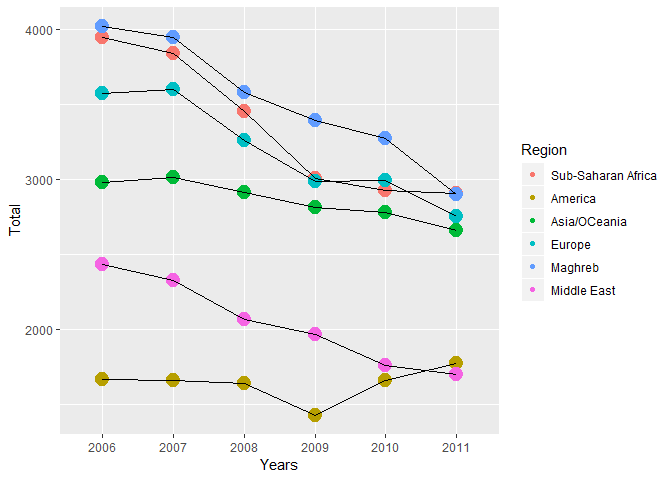
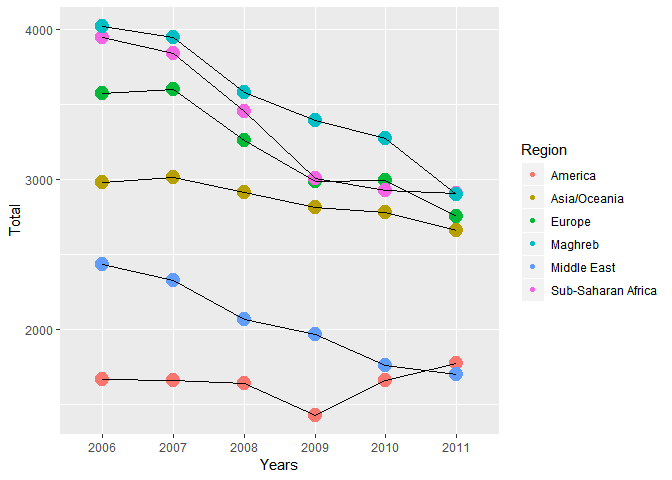
rmd update with tidyr::gather for first part

diff --git a/FrenchScholarships.md b/FrenchScholarships.md
@@ -84,52 +84,70 @@ Then, let's get a more conventional presentation with rows, not columns, indicat
 
 ``` r
 Years <- as.factor(as.character(c(2006:2011)))
-finalTidy <- as.data.frame(t(tidyData)) %>% 
+Regions <- c("Years", "UE", "Eur_hors_UE", "Europe", "Am_N", "America", "Asia/Oceania", "Middle East", "AfSubS_F", "AfSubS_nF","Sub-Saharan Africa","Maghreb", "Total_Ge")
+
+tidySet <- as.data.frame(t(tidyData)) %>% 
         cbind(Years, .)
-Regions <- c("Years", "EU", "EurNotEU", "Total_Eur", "Am_N", "Total_Am", "Total_Asia_O", "Middle_E", "AfSubS_F", "AfSubS_nF","Total_AfSubS", "Maghreb", "Total_Ge")
-colnames(finalTidy) <- Regions
-rownames(finalTidy) <- Years
-print(finalTidy)
+
+colnames(tidySet) <- Regions
+rownames(tidySet) <- Years
+
+
+tidySet <- tidySet %>% 
+        gather(Years, count) 
+
+colnames(tidySet) <- c("Years", "Region", "Total")
+
+tidySet <- tidySet %>%
+        filter(Region %in% c("Europe", "America", 
+                             "Asia/Oceania", "Middle East",
+                             "Sub-Saharan Africa", "Maghreb"))
+
+print(tidySet)
 ```
 
-    ##      Years   EU EurNotEU Total_Eur Am_N Total_Am Total_Asia_O Middle_E
-    ## 2006  2006 1795     1780      3575  171     1665         2983     2435
-    ## 2007  2007 1732     1870      3602  146     1660         3015     2326
-    ## 2008  2008 1556     1703      3259  154     1636         2915     2067
-    ## 2009  2009 1438     1548      2986  134     1427         2812     1962
-    ## 2010  2010 1345     1646      2991  122     1655         2777     1761
-    ## 2011  2011 1271     1484      2755   97     1770         2662     1697
-    ##      AfSubS_F AfSubS_nF Total_AfSubS Maghreb Total_Ge
-    ## 2006     3337       613         3950    4021    18629
-    ## 2007     3283       560         3843    3947    18393
-    ## 2008     2950       505         3455    3580    16912
-    ## 2009     2590       420         3010    3393    15590
-    ## 2010     2466       459         2925    3271    15380
-    ## 2011     2503       403         2906    2897    14687
+    ##    Years             Region Total
+    ## 1   2006             Europe  3575
+    ## 2   2007             Europe  3602
+    ## 3   2008             Europe  3259
+    ## 4   2009             Europe  2986
+    ## 5   2010             Europe  2991
+    ## 6   2011             Europe  2755
+    ## 7   2006            America  1665
+    ## 8   2007            America  1660
+    ## 9   2008            America  1636
+    ## 10  2009            America  1427
+    ## 11  2010            America  1655
+    ## 12  2011            America  1770
+    ## 13  2006       Asia/Oceania  2983
+    ## 14  2007       Asia/Oceania  3015
+    ## 15  2008       Asia/Oceania  2915
+    ## 16  2009       Asia/Oceania  2812
+    ## 17  2010       Asia/Oceania  2777
+    ## 18  2011       Asia/Oceania  2662
+    ## 19  2006        Middle East  2435
+    ## 20  2007        Middle East  2326
+    ## 21  2008        Middle East  2067
+    ## 22  2009        Middle East  1962
+    ## 23  2010        Middle East  1761
+    ## 24  2011        Middle East  1697
+    ## 25  2006 Sub-Saharan Africa  3950
+    ## 26  2007 Sub-Saharan Africa  3843
+    ## 27  2008 Sub-Saharan Africa  3455
+    ## 28  2009 Sub-Saharan Africa  3010
+    ## 29  2010 Sub-Saharan Africa  2925
+    ## 30  2011 Sub-Saharan Africa  2906
+    ## 31  2006            Maghreb  4021
+    ## 32  2007            Maghreb  3947
+    ## 33  2008            Maghreb  3580
+    ## 34  2009            Maghreb  3393
+    ## 35  2010            Maghreb  3271
+    ## 36  2011            Maghreb  2897
 
 ### Data vizualization
 
 ``` r
-data_Eur <- cbind(finalTidy[,c(1,4)], Region=rep("Europe", 6))
-data_Am <- cbind(finalTidy[,c(1,6)], Region=rep("America", 6))
-data_Asia <- cbind(finalTidy[,c(1,7)], Region=rep("Asia/OCeania", 6))
-data_ME <- cbind(finalTidy[,c(1,8)], Region=rep("Middle East", 6))
-data_Afr <- cbind(finalTidy[,c(1,11)], Region=rep("Sub-Saharan Africa", 6))
-data_Magh <- cbind(finalTidy[,c(1,12)], Region=rep("Maghreb", 6))
-
-
-names(data_Eur)<- c("Years", "Total", "Region")
-names(data_Am)<- c("Years", "Total", "Region")
-names(data_Asia)<- c("Years", "Total", "Region")
-names(data_ME)<- c("Years", "Total", "Region")
-names(data_Afr)<- c("Years", "Total", "Region")
-names(data_Magh)<- c("Years", "Total", "Region")
-
-long_Data <- rbind(data_Afr, data_Am, data_Asia, data_Eur, data_Magh, data_ME)
-
-#### DATA VIZ ####
-
-ScholPlot <- ggplot(data=long_Data) + geom_point(aes(x=Years, y=Total, color = Region, size= 10)) +
+ScholPlot <- ggplot(data=tidySet) + geom_point(aes(x=Years, y=Total, color = Region, size= 10)) +
         geom_line(aes(x=Years, y=Total, group = Region)) + guides(size=FALSE)
 print(ScholPlot)
 ```
